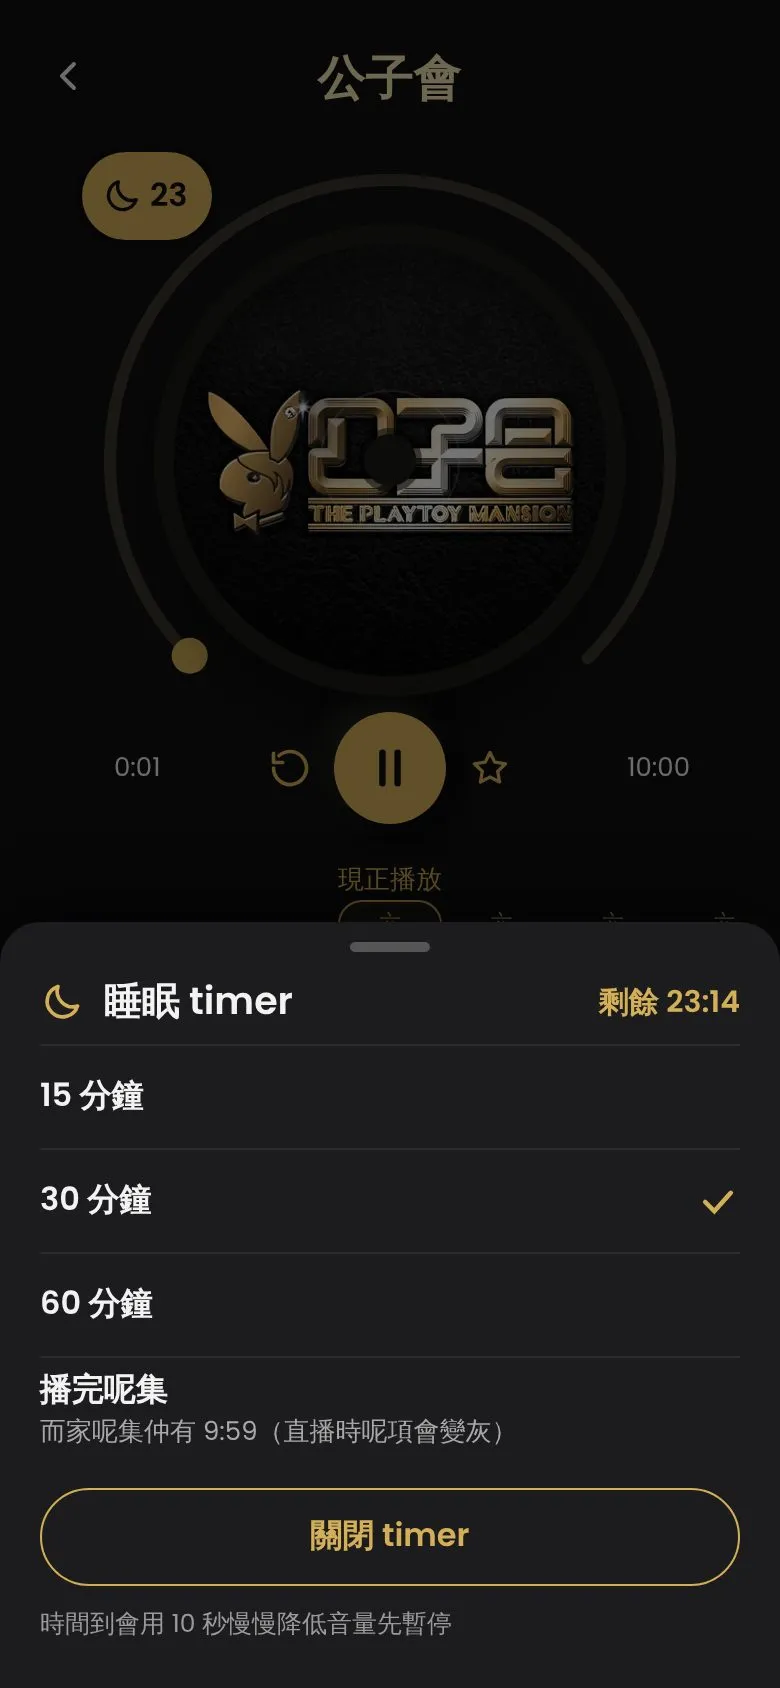
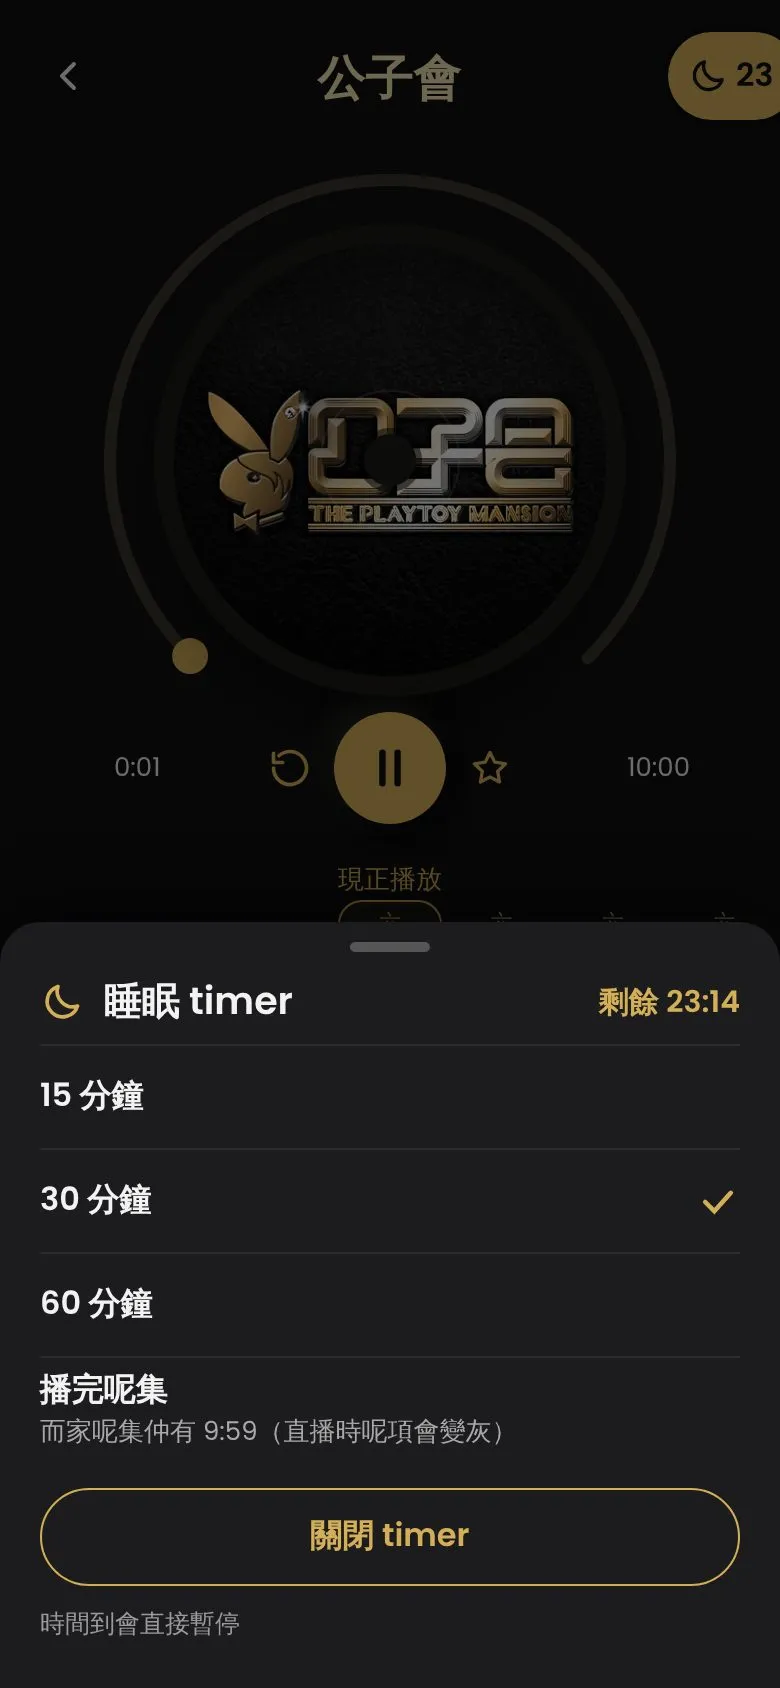
docs(mockup): update 9d sleep timer preview after grill
Claude-Session: https://claude.ai/code/session_01NegVSzAWWvX3PHG28NyZnq

Changed region(s): [[0.8615, 0.0, 1.0, 0.0924], [0.1846, 0.955, 0.5846, 0.9858], [0.0923, 0.0924, 0.2769, 0.154]]

diff --git a/_mockups_/sleep-timer/index.html b/_mockups_/sleep-timer/index.html
@@ -129,196 +129,203 @@
     <body>
         <main>
             <header>
-                <h1>9d 睡眠 timer：入口位置 preview</h1>
+                <h1>9d 睡眠 timer preview（v2：grill 之後）</h1>
                 <p>
-                    真 app 截圖（v2.0.0）加上新掣。月亮掣冇開 = 細 icon；開咗 =
-                    實色膠囊顯示剩餘分鐘（例：23）。 撳月亮開底部選單：15 / 30 / 60
-                    分鐘、播完呢集；時間到用 10 秒淡出音量先暫停。
+                    真 app 截圖（v2.0.0）加上新掣。每行可以左右掃睇其他裝置。入口用方案
+                    B；月亮掣只喺裝置本地時間 21:00–05:00 出現，timer 開緊時一直出。
                 </p>
             </header>
-
             <section>
-                <h2><span class="tag">方案 A</span>唱片圈左上角（ⓘ 嘅對面）</h2>
+                <h2>日間（05:00–21:00）：零改變</h2>
+                <p>冇月亮掣，同而家 v2.0.0 一模一樣；e2e:visual 新加嘅 14:00 情境要 0 diff。</p>
+                <div class="row">
+                    <figure>
+                        <img src="phone-none.webp" alt="手機直：日間" loading="lazy" />
+                        <figcaption>手機直・日間</figcaption>
+                    </figure>
+                    <figure>
+                        <img src="square-none.webp" alt="HomeView：日間" loading="lazy" />
+                        <figcaption>HomeView・日間</figcaption>
+                    </figure>
+                    <figure>
+                        <img src="phoneL-none.webp" alt="手機橫：日間" loading="lazy" />
+                        <figcaption>手機橫・日間</figcaption>
+                    </figure>
+                    <figure>
+                        <img src="tabletL-none.webp" alt="平板橫主頁播放卡：日間" loading="lazy" />
+                        <figcaption>平板橫主頁播放卡・日間</figcaption>
+                    </figure>
+                </div>
+            </section>
+            <section>
+                <h2>夜間 21:00–05:00：月亮掣（方案 B）</h2>
                 <p>
-                    所有裝置同一個位：唱片圈頂嗰行左邊，同右邊
-                    ⓘ（有資料嘅節目先有）對稱；控制列（由頭 / 播放 / 收藏）唔郁。
+                    內頁頁頭右上（HomeView 喺清單掣左邊）；闊版主頁播放卡喺卡頭下面嗰行左邊。未開 =
+                    細 icon；開咗 = 實色膠囊顯示剩餘分鐘（向上取整）。
                 </p>
                 <div class="row">
                     <figure>
-                        <img src="phone-a-off.webp" alt="手機直：方案 A 未開" loading="lazy" />
+                        <img src="phone-b-off.webp" alt="手機直：未開" loading="lazy" />
                         <figcaption>手機直・未開</figcaption>
                     </figure>
                     <figure>
-                        <img src="phone-a-on.webp" alt="手機直：方案 A 開咗" loading="lazy" />
+                        <img src="phone-b-on.webp" alt="手機直：開咗" loading="lazy" />
                         <figcaption>手機直・開咗（剩 23 分）</figcaption>
                     </figure>
                     <figure>
-                        <img src="square-a-off.webp" alt="HomeView：方案 A 未開" loading="lazy" />
+                        <img src="square-b-off.webp" alt="HomeView：未開" loading="lazy" />
                         <figcaption>HomeView・未開</figcaption>
                     </figure>
                     <figure>
-                        <img src="square-a-on.webp" alt="HomeView：方案 A 開咗" loading="lazy" />
-                        <figcaption>HomeView・開咗</figcaption>
+                        <img src="square-b-on.webp" alt="HomeView：開咗" loading="lazy" />
+                        <figcaption>HomeView・開咗（剩 23 分）</figcaption>
                     </figure>
                     <figure>
-                        <img src="phoneL-a-on.webp" alt="手機橫：方案 A 開咗" loading="lazy" />
-                        <figcaption>手機橫・開咗</figcaption>
+                        <img src="phoneL-b-off.webp" alt="手機橫：未開" loading="lazy" />
+                        <figcaption>手機橫・未開</figcaption>
                     </figure>
                     <figure>
-                        <img
-                            src="tabletL-a-on.webp"
-                            alt="平板橫主頁播放卡：方案 A 開咗"
-                            loading="lazy"
-                        />
-                        <figcaption>平板橫主頁播放卡・開咗</figcaption>
-                    </figure>
-                </div>
-            </section>
-
-            <section>
-                <h2><span class="tag">方案 B</span>頁頭右上（返回掣對面）</h2>
-                <p>
-                    內頁：頁頭右邊（HomeView
-                    喺清單掣左邊）。主頁闊版播放卡冇頁頭，放喺卡頭下面嗰行左邊（同方案 A 差唔多）。
-                    手機橫嘅頁頭喺左欄，掣會離唱片較遠。
-                </p>
-                <div class="row">
-                    <figure>
-                        <img src="phone-b-off.webp" alt="手機直：方案 B 未開" loading="lazy" />
-                        <figcaption>手機直・未開</figcaption>
+                        <img src="phoneL-b-on.webp" alt="手機橫：開咗" loading="lazy" />
+                        <figcaption>手機橫・開咗（剩 23 分）</figcaption>
                     </figure>
                     <figure>
-                        <img src="phone-b-on.webp" alt="手機直：方案 B 開咗" loading="lazy" />
-                        <figcaption>手機直・開咗</figcaption>
+                        <img src="tabletL-b-off.webp" alt="平板橫主頁播放卡：未開" loading="lazy" />
+                        <figcaption>平板橫主頁播放卡・未開</figcaption>
                     </figure>
                     <figure>
-                        <img src="square-b-off.webp" alt="HomeView：方案 B 未開" loading="lazy" />
-                        <figcaption>HomeView・未開</figcaption>
-                    </figure>
-                    <figure>
-                        <img src="square-b-on.webp" alt="HomeView：方案 B 開咗" loading="lazy" />
-                        <figcaption>HomeView・開咗</figcaption>
-                    </figure>
-                    <figure>
-                        <img src="phoneL-b-on.webp" alt="手機橫：方案 B 開咗" loading="lazy" />
-                        <figcaption>手機橫・開咗</figcaption>
-                    </figure>
-                    <figure>
-                        <img
-                            src="tabletL-b-on.webp"
-                            alt="平板橫主頁播放卡：方案 B 開咗"
-                            loading="lazy"
-                        />
-                        <figcaption>平板橫主頁播放卡・開咗</figcaption>
+                        <img src="tabletL-b-on.webp" alt="平板橫主頁播放卡：開咗" loading="lazy" />
+                        <figcaption>平板橫主頁播放卡・開咗（剩 23 分）</figcaption>
                     </figure>
                 </div>
             </section>
-
             <section>
-                <h2>底部選單（兩個方案共用）</h2>
+                <h2>底部選單</h2>
                 <p>
-                    未開：揀一項即開始。開咗：頂右顯示剩餘時間、剔住而家嗰項、多一粒「關閉
-                    timer」；揀另一項 = 由而家重新計。 「播完呢集」只喺重溫 /
-                    廣播劇有效，直播時變灰。平板 / 電腦闊版選單最闊 480px 置中。
+                    未開：頂部「再開 30 分鐘」（上次揀嘅時長，localStorage 記住），下面 15 / 30 / 60
+                    分鐘、播完呢集（直播變灰）；一揀即計，暫停中都照計。開緊：顯示剩餘時間、剔住而家嗰項、「關閉
+                    timer」；揀另一項 = 由而家重新計。時間到直接暫停（唔淡出）。
                 </p>
                 <div class="row">
                     <figure>
-                        <img src="phone-sheet.webp" alt="手機直：選單未開 timer" loading="lazy" />
+                        <img src="phone-sheet.webp" alt="手機直：選單未開" loading="lazy" />
                         <figcaption>手機直・未開</figcaption>
                     </figure>
                     <figure>
-                        <img
-                            src="phone-sheet-on.webp"
-                            alt="手機直：選單開咗 timer"
-                            loading="lazy"
-                        />
+                        <img src="phone-sheet-on.webp" alt="手機直：選單開緊" loading="lazy" />
                         <figcaption>手機直・開緊</figcaption>
                     </figure>
                     <figure>
-                        <img
-                            src="square-sheet-on.webp"
-                            alt="HomeView：選單開咗 timer"
-                            loading="lazy"
-                        />
+                        <img src="square-sheet.webp" alt="HomeView：選單未開" loading="lazy" />
+                        <figcaption>HomeView・未開</figcaption>
+                    </figure>
+                    <figure>
+                        <img src="square-sheet-on.webp" alt="HomeView：選單開緊" loading="lazy" />
                         <figcaption>HomeView・開緊</figcaption>
                     </figure>
                     <figure>
-                        <img
-                            src="phoneL-sheet-on.webp"
-                            alt="手機橫：選單開咗 timer"
-                            loading="lazy"
-                        />
+                        <img src="phoneL-sheet.webp" alt="手機橫：選單未開" loading="lazy" />
+                        <figcaption>手機橫・未開</figcaption>
+                    </figure>
+                    <figure>
+                        <img src="phoneL-sheet-on.webp" alt="手機橫：選單開緊" loading="lazy" />
                         <figcaption>手機橫・開緊</figcaption>
                     </figure>
                     <figure>
                         <img
-                            src="tabletL-sheet-on.webp"
-                            alt="平板橫：選單開咗 timer"
+                            src="tabletL-sheet.webp"
+                            alt="平板橫主頁播放卡：選單未開"
                             loading="lazy"
                         />
-                        <figcaption>平板橫・開緊</figcaption>
+                        <figcaption>平板橫主頁播放卡・未開</figcaption>
+                    </figure>
+                    <figure>
+                        <img
+                            src="tabletL-sheet-on.webp"
+                            alt="平板橫主頁播放卡：選單開緊"
+                            loading="lazy"
+                        />
+                        <figcaption>平板橫主頁播放卡・開緊</figcaption>
                     </figure>
                 </div>
             </section>
-
             <section>
-                <h2>Mini player（可選）</h2>
+                <h2>Mini player</h2>
                 <p>
-                    Mini player 唔加入口（位唔夠）；timer 開緊先喺播放掣左邊出細膠囊「🌙
-                    23」，撳佢開同一個選單。冇開 timer 時 mini player 零改變。
+                    日間零改變；21:00–05:00 播放掣左邊出細月亮（撳開同一個選單）；開緊變「🌙
+                    23」膠囊。實作時標題 / 日期會縮窄讓位（preview 係疊上去，未縮）。
                 </p>
                 <div class="row">
                     <figure>
-                        <img
-                            src="phone-mini-off.webp"
-                            alt="手機主頁 mini player：冇 timer"
-                            loading="lazy"
-                        />
-                        <figcaption>冇 timer（現狀，唔變）</figcaption>
+                        <img src="phone-mini-off.webp" alt="mini player 日間" loading="lazy" />
+                        <figcaption>日間（唔變）</figcaption>
                     </figure>
                     <figure>
                         <img
-                            src="phone-mini-on.webp"
-                            alt="手機主頁 mini player：timer 開緊"
+                            src="phone-mini-night.webp"
+                            alt="mini player 夜間未開"
                             loading="lazy"
                         />
+                        <figcaption>夜間・未開</figcaption>
+                    </figure>
+                    <figure>
+                        <img src="phone-mini-on.webp" alt="mini player timer 開緊" loading="lazy" />
                         <figcaption>timer 開緊</figcaption>
                     </figure>
                 </div>
             </section>
-
             <section>
-                <h2>要你決定</h2>
+                <h2>已定決定（grill 結果）</h2>
                 <table>
                     <thead>
                         <tr>
-                            <th>#</th>
-                            <th>問題</th>
-                            <th>建議</th>
+                            <th>項目</th>
+                            <th>決定</th>
                         </tr>
                     </thead>
                     <tbody>
                         <tr>
-                            <td>1</td>
-                            <td>入口用方案 A 定 B？</td>
-                            <td>A：所有裝置同一位、貼近唱片同控制；B 喺手機橫離唱片遠</td>
+                            <td>入口</td>
+                            <td>方案 B：頁頭右上 / HomeView 清單掣左邊 / 闊版播放卡卡頭下面左邊</td>
                         </tr>
                         <tr>
-                            <td>2</td>
-                            <td>Mini player 開緊 timer 時出唔出「🌙 23」？</td>
-                            <td>出（冇開 timer 時零改變）</td>
+                            <td>顯示時段</td>
+                            <td>裝置本地時間 21:00–05:00（每分鐘檢查）；開緊 timer 一直出</td>
                         </tr>
                         <tr>
-                            <td>3</td>
-                            <td>時間到暫停之後，timer 自動消失定保留上次揀嘅時長做預設？</td>
-                            <td>消失；下次再撳月亮重新揀</td>
+                            <td>Mini player</td>
+                            <td>21:00–05:00 有月亮入口；開緊變膠囊</td>
                         </tr>
                         <tr>
-                            <td>4</td>
-                            <td>手動暫停 / 轉節目時 timer 點算？</td>
+                            <td>選項</td>
+                            <td>15 / 30 / 60 分鐘、播完呢集（直播灰）；唔做淡出</td>
+                        </tr>
+                        <tr>
+                            <td>播完呢集</td>
                             <td>
-                                照計（同 iOS
-                                時鐘「停止播放」一樣）；轉去直播時「播完呢集」自動改成剩餘分鐘
+                                留喺同一集：播完（ended）先停；轉集 / 轉直播：用剩餘時間做
+                                background timer 繼續計
+                            </td>
+                        </tr>
+                        <tr>
+                            <td>時間到</td>
+                            <td>直接暫停；記住上次時長，下次選單頂出「再開 N 分鐘」；唔自動重開</td>
+                        </tr>
+                        <tr>
+                            <td>暫停 / 轉節目</td>
+                            <td>照計；一揀即計</td>
+                        </tr>
+                        <tr>
+                            <td>準確度</td>
+                            <td>
+                                絕對截止時間 + timeupdate
+                                檢查；sessionStorage，重新載入照計；過咗期就清走唔播
+                            </td>
+                        </tr>
+                        <tr>
+                            <td>e2e:visual</td>
+                            <td>
+                                lane 0 先加 14:00 日間情境；日間 0 diff；22:30 只准月亮掣 pixel diff
+                                + mini player 標題 / 日期位置 diff
                             </td>
                         </tr>
                     </tbody>
